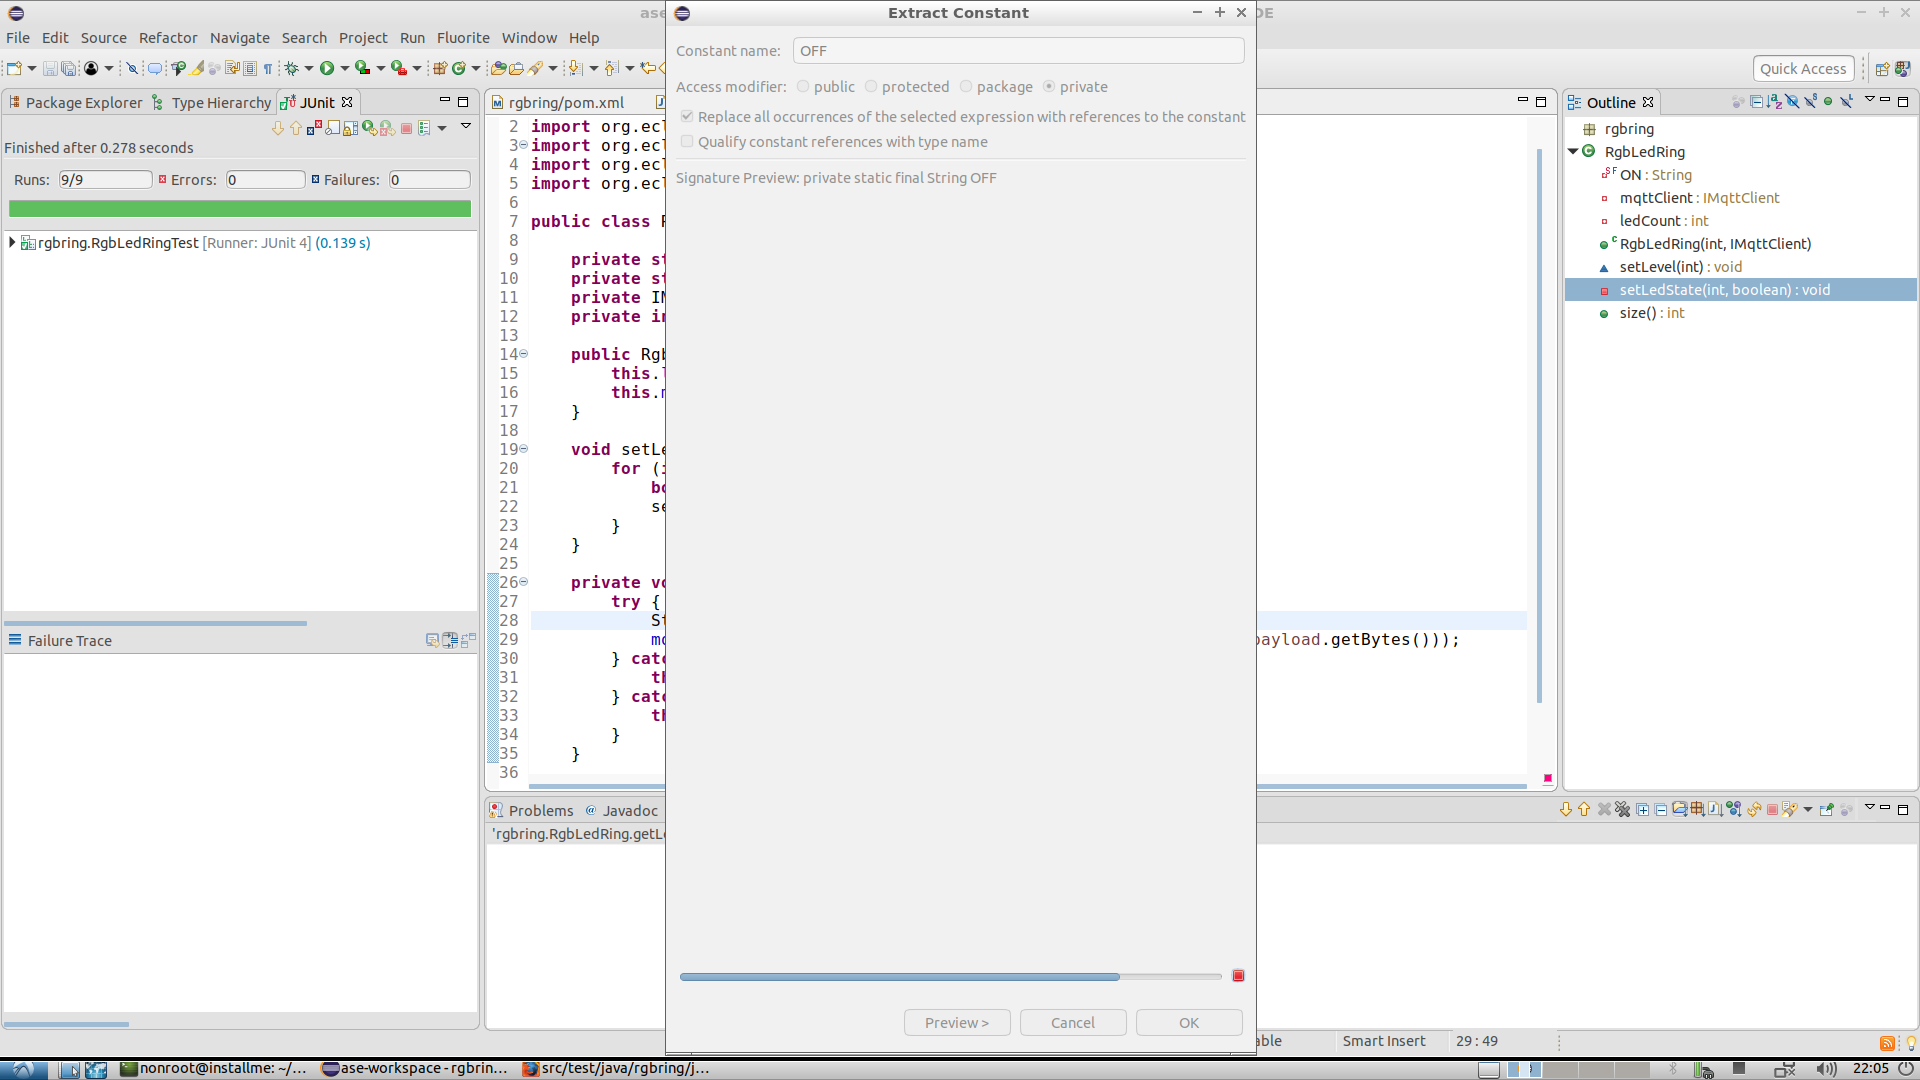
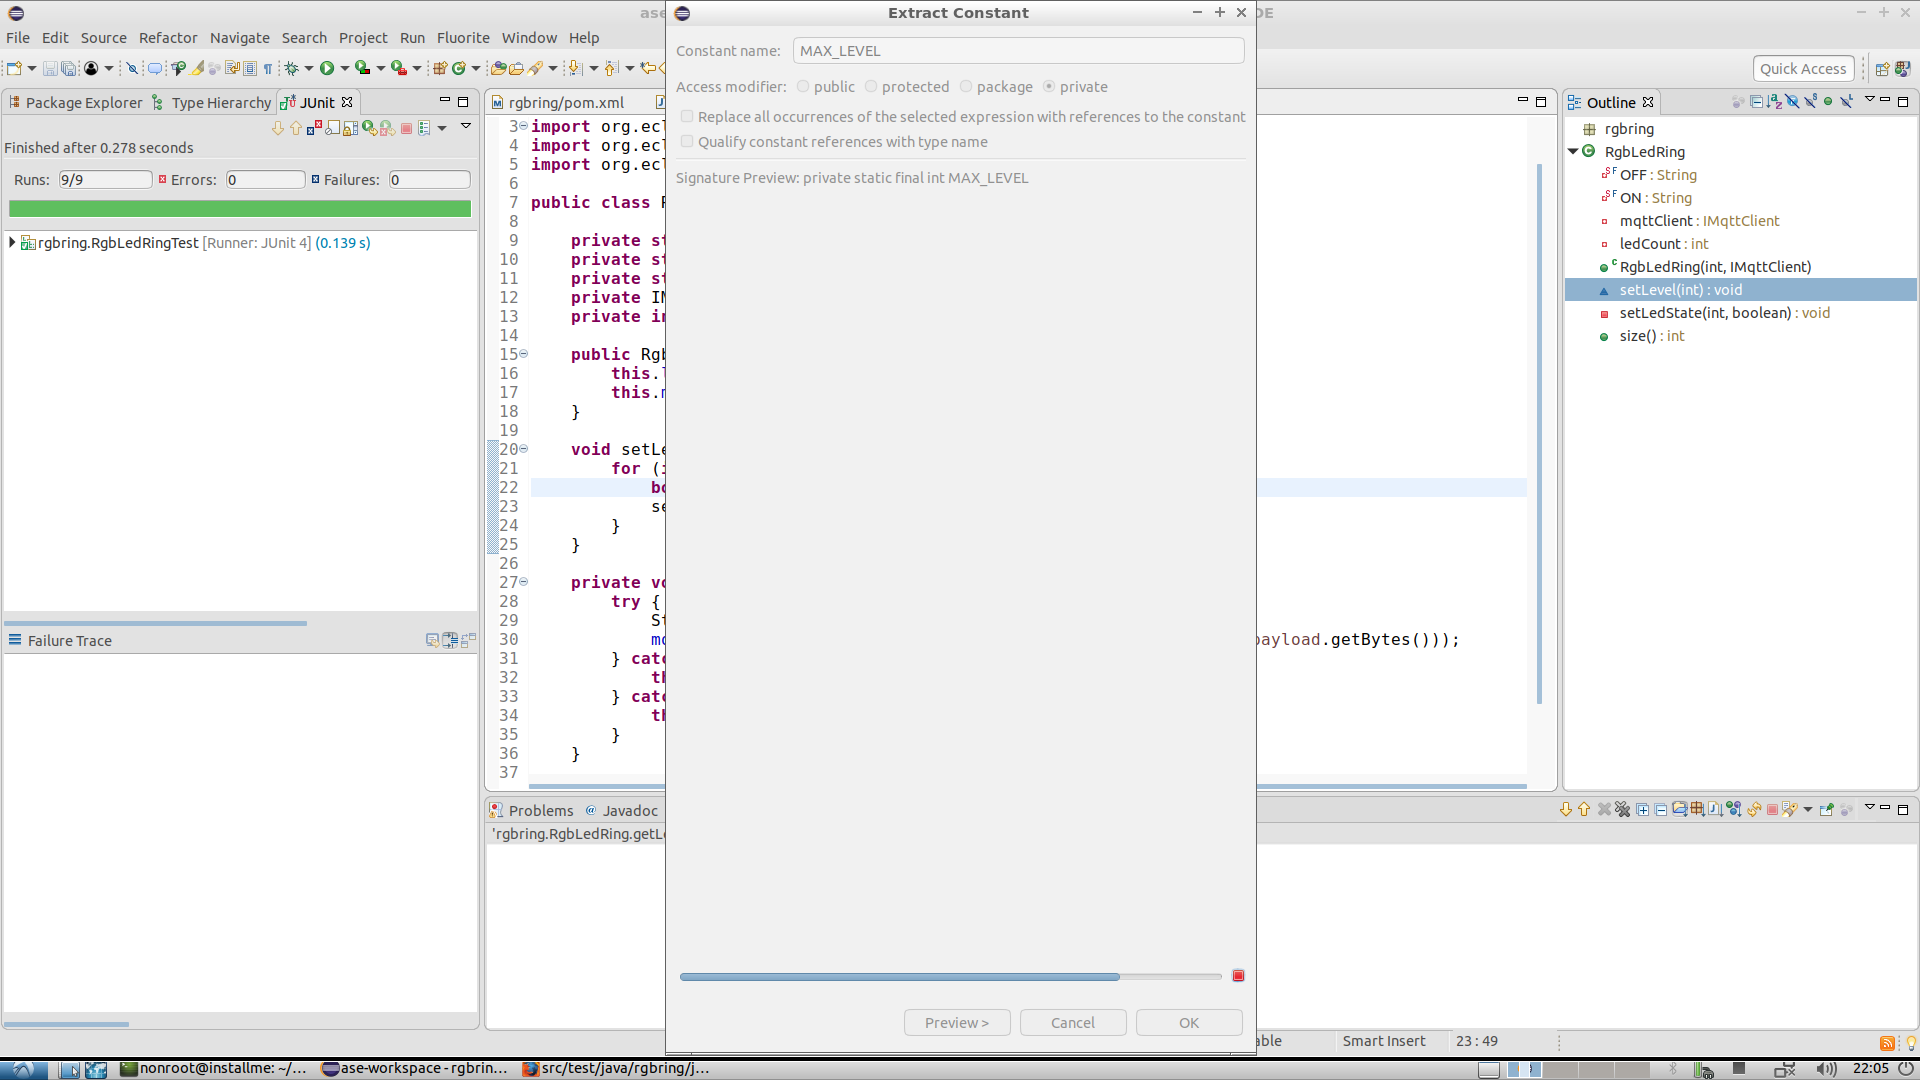
autocommit on change

diff --git a/src/test/java/rgbring/RgbLedRing.java b/src/test/java/rgbring/RgbLedRing.java
@@ -7,6 +7,7 @@ import org.eclipse.paho.client.mqttv3.MqttPersistenceException;
 
 public class RgbLedRing {
 	
+	private static final int MAX_LEVEL = 100;
 	private static final String OFF = "#000000";
 	private static final String ON = "#ffffff";
 	private IMqttClient mqttClient;
@@ -19,7 +20,7 @@ public class RgbLedRing {
 
 	void setLevel(int level) {
 		for (int i = 0; i < size(); i++) {
-			boolean ledState = level > 100 / size() * i;
+			boolean ledState = level > MAX_LEVEL / size() * i;
 			setLedState(i, ledState);
 		}
 	}
